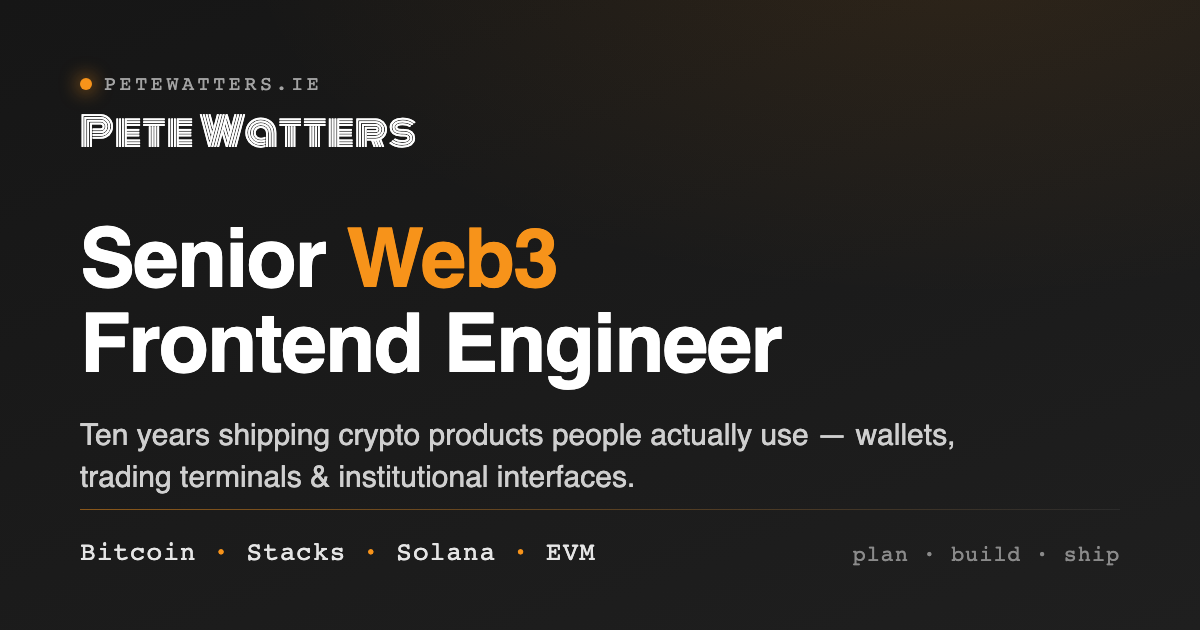
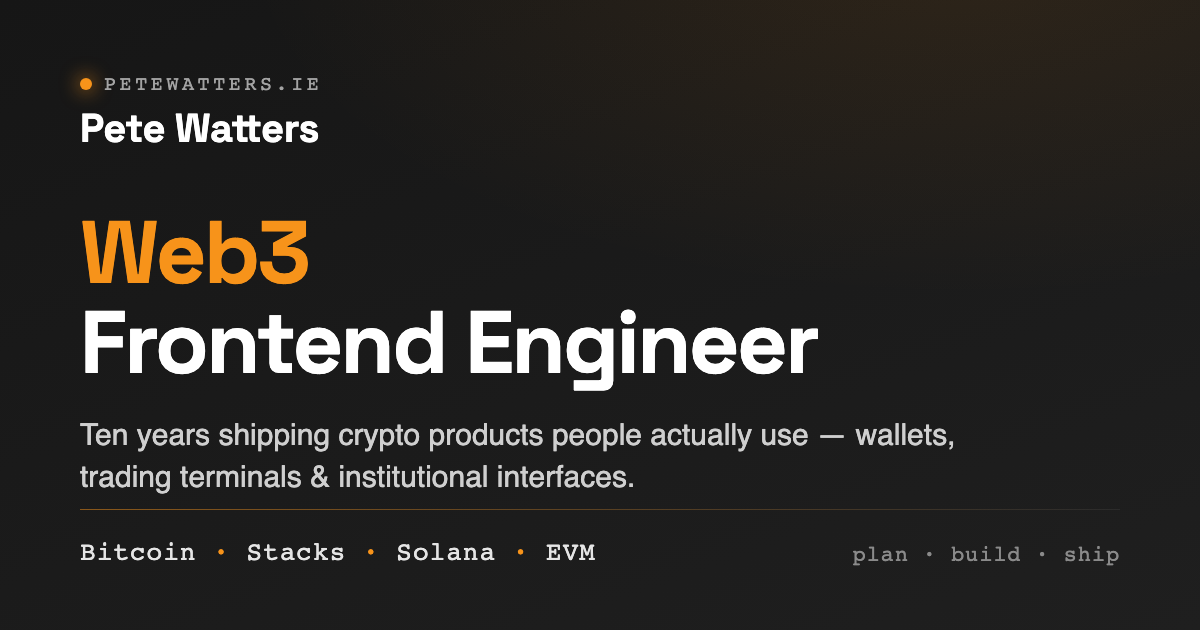
feat: drop "Senior" from positioning — lean into Web3 frontend niche
Refresh the OG card to "Web3 Frontend Engineer" (Space Grotesk wordmark,
no "Senior") and update the homepage <title> + meta description to match.
Positioning shifts from broad seniority to the sharper Web3 frontend niche.

Changed region(s): [[0.0617, 0.3317, 0.6783, 0.6333], [0.0617, 0.181, 0.37, 0.2413]]

diff --git a/src/consts.ts b/src/consts.ts
@@ -1,6 +1,6 @@
 export const SITE_TITLE = 'Pete Watters';
 export const SITE_DESCRIPTION =
-  'Senior frontend engineer with ten years shipping crypto products — wallets, trading terminals and institutional interfaces across Bitcoin, Stacks, Solana and EVM chains.';
+  'Web3 frontend engineer with ten years shipping crypto products — wallets, trading terminals and institutional interfaces across Bitcoin, Stacks, Solana and EVM chains.';
 
 export const ROUTES = {
   HOME: '/',
